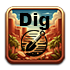
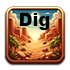
Active state for the buttons; deactivate by clicking twice.

Changed region(s): [[0.2857, 0.4286, 0.6857, 0.8286]]

diff --git a/scripts/interactionMenuHelper.js b/scripts/interactionMenuHelper.js
@@ -13,52 +13,86 @@ var interactionMenuHelper = function() {
 
     async function addButton(interactionType, disable) {
         var asset = await PIXI.Assets.load('images/buttons/button-' + interactionType + '.png');
+        var assetActive = await PIXI.Assets.load('images/buttons/button-' + interactionType + '-active.png');
         var sprite = new PIXI.Sprite(asset);
-        buttonRegister[interactionType] = sprite;
+        var spriteActive = new PIXI.Sprite(assetActive);
+        spriteActive.alpha = 0;
 
-        sprite.x = buttonPosition;
-        sprite.y = appInstance.view.height - 70;
+
+        var container = new PIXI.Container();
+        container.eventMode = 'static';
+        container.cursor = 'pointer';
+        container.x = buttonPosition;
+        container.y = appInstance.view.height - 70;
+        container.width = 70;
+        container.height = 70;
+        container.addChild(sprite);
+        container.addChild(spriteActive);
         
-
-        sprite.on('click', function() {
-            interactionHelper.setNextMode(interactionType);
+        container.on('click', function() {
+            if (interactionType === interactionHelper.getNextMode()) {
+                interactionHelper.setNextMode(null);
+            }
+            else {
+                interactionHelper.setNextMode(interactionType);
+            }
         });
 
-        appInstance.stage.addChild(sprite);
+        appInstance.stage.addChild(container);
 
         if (disable) {
-            sprite.eventMode = 'none';
+            container.eventMode = 'none';
             sprite.alpha = 0.5;
         }
         else {
-            sprite.eventMode = 'static';
+            container.eventMode = 'static';
         }
 
         buttonPosition += 80;
+
+        
+        buttonRegister[interactionType] = sprite;
+        buttonRegister[interactionType + '-active'] = spriteActive;
+        buttonRegister[interactionType + '-container'] = container;
+    }
+
+    function setButtonActive(interactionType) {
+        setAllInactive();
+
+        soundHelper.play(soundHelper.soundKey.Interaction);
+        buttonRegister[interactionType + '-active'].alpha = 1;
+    }
+
+    function setAllInactive() {
+        buttonRegister[interactionHelper.interactionTypes.Digging + '-active'].alpha = 0;
+        buttonRegister[interactionHelper.interactionTypes.Scan + '-active'].alpha = 0;
+        buttonRegister[interactionHelper.interactionTypes.Drop + '-active'].alpha = 0;
     }
 
     function handleStatUpdate(stats) {
         if (stats.credits >= 2) {
-            buttonRegister[interactionHelper.interactionTypes.Scan].eventMode = 'static';
+            buttonRegister[interactionHelper.interactionTypes.Scan + '-container'].eventMode = 'static';
             buttonRegister[interactionHelper.interactionTypes.Scan].alpha = 1;
         }
         else {
-            buttonRegister[interactionHelper.interactionTypes.Scan].eventMode = 'none';
+            buttonRegister[interactionHelper.interactionTypes.Scan + '-container'].eventMode = 'none';
             buttonRegister[interactionHelper.interactionTypes.Scan].alpha = 0.5;
         }
 
         if (stats.credits >= 8) {
-            buttonRegister[interactionHelper.interactionTypes.Drop].eventMode = 'static';
+            buttonRegister[interactionHelper.interactionTypes.Drop + '-container'].eventMode = 'static';
             buttonRegister[interactionHelper.interactionTypes.Drop].alpha = 1;
         }
         else {
-            buttonRegister[interactionHelper.interactionTypes.Drop].eventMode = 'none';
+            buttonRegister[interactionHelper.interactionTypes.Drop + '-container'].eventMode = 'none';
             buttonRegister[interactionHelper.interactionTypes.Drop].alpha = 0.5;
         }
     }
     
     return {
         initialize: initialize,
-        handleStatUpdate: handleStatUpdate
+        handleStatUpdate: handleStatUpdate,
+        setButtonActive: setButtonActive,
+        setAllInactive: setAllInactive
     }
 }();

diff --git a/scripts/gameStage.js b/scripts/gameStage.js
@@ -102,9 +102,12 @@ var gameStage = function() {
     }
 
     function handleTileRightClick(mapTile, mouseEvent) {
-        interactionHelper.setNextMode(null);
-
-        mapTile.toggleTileMarking();
+        if (interactionHelper.getNextMode()) {
+            interactionHelper.setNextMode(null);
+        }
+        else {
+            mapTile.toggleTileMarking();
+        }
     }
 
     function handleTileReveal(mapTile) {

diff --git a/scripts/interactionHelper.js b/scripts/interactionHelper.js
@@ -53,6 +53,12 @@ var interactionHelper = function() {
     }
 
     function setNextMode(interaction) {
+        if (interaction) {
+            interactionMenuHelper.setButtonActive(interaction);
+        }
+        else {
+            interactionMenuHelper.setAllInactive();
+        }
         selectedInteraction = interaction;
     }
 
